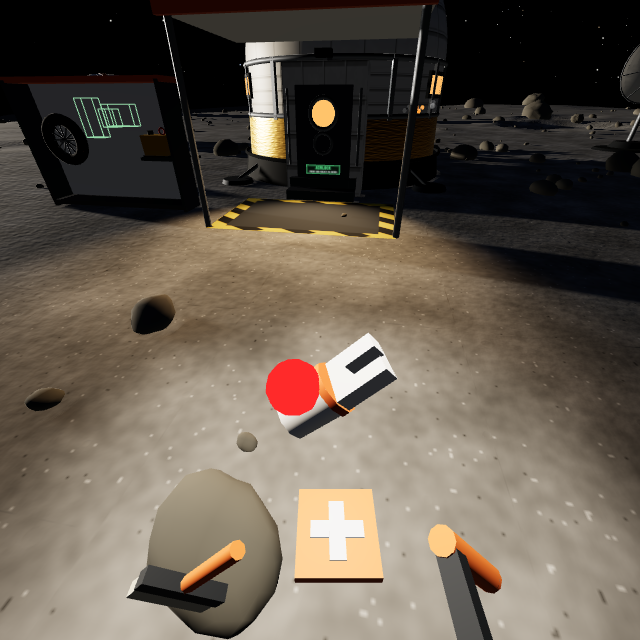
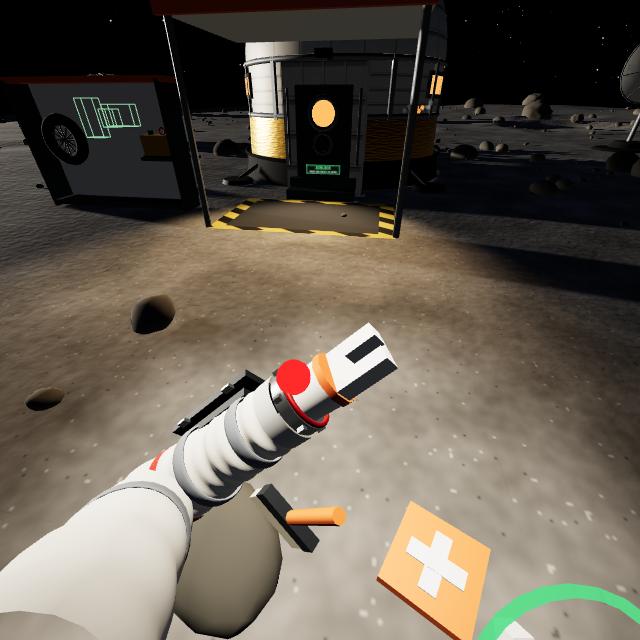
Headset: the cuff is on your own arm, and reading it turns the radio on
In a headset the arm with the gauge cuff no longer swings up when a button is held. It follows
the real left arm (the left controller, or the tracked left hand), and the radio is on while
the gauges can be read: the face of the cuff turned toward the eyes, within about half a
metre, near the middle of the view. Staying on is looser than coming on, and coming on takes a
quarter of a second of holding still, so an arm swinging through the view does not key the
radio. Lower the arm, turn it over or look away and the radio is off. The left trigger, and a
bare left hand held to the helmet, still key the radio without looking. On a laptop nothing
changes: hold Tab and the arm swings up.

The radio's icon on the cuff is now a microphone instead of a mast: a grey outline while the
radio is off, solid red with sound coming off it while you are on the air, barred in amber
with no microphone and in red with no signal. A blue loudspeaker takes its place while
Mission Ops is talking.

- client/arm.js: follow() places the arm from a tracked wrist joint or a controller's pointing
  pose (carrying on along the line of the controller's glove), the glove is a group of its own
  that a headset hides because the real hand is drawn there instead, and the upper arm can be
  aimed at where the shoulder is.
- client/astronaut.js: followArm() and gaugesReadable(), and the arm moves between the view
  (laptop) and the room (headset) as a session starts and ends.
[…]

Changed region(s): [[0.0, 0.5, 1.0, 1.0], [0.6562, 0.1562, 0.6875, 0.1875]]

diff --git a/client/arm.js b/client/arm.js
@@ -62,10 +62,10 @@ export function buildArm(THREE) {
   };
   const AZ = -(sleeveR(0) + 0.016);
   // A tube of varying radius along x, from a function of x.
-  function tube(x0, x1, radius, mat, steps = 72) {
+  function tube(x0, x1, radius, mat, steps = 72, parent = group) {
     const pts = [];
     for (let i = 0; i <= steps; i++) { const x = x0 + (x1 - x0) * i / steps; pts.push(new THREE.Vector2(radius(x), x)); }
-    const m = add(new THREE.LatheGeometry(pts, 28), mat, 0, 0, AZ);
+    const m = add(new THREE.LatheGeometry(pts, 28), mat, 0, 0, AZ, parent);
     m.rotation.z = -Math.PI / 2; // the lathe's axis (y) laid along x
     return m;
   }
@@ -78,15 +78,27 @@ export function buildArm(THREE) {
   tube(ELBOW, WRIST, sleeveR, fabric);
   tube(ELBOW + 0.066, ELBOW + 0.088, x => sleeveR(x) + 0.0018, stripe, 8);       // red identification stripe
   add(new THREE.SphereGeometry(0.0715, 24, 16), fabric, ELBOW, 0, AZ);           // the elbow
-  // Upper arm, running from the elbow down and back to a shoulder out of view.
-  {
-    const dir = new THREE.Vector3(-0.22, -0.72, 0.66).normalize(), pts = [];
-    for (let i = 0; i <= 40; i++) { const d = 0.36 * i / 40; pts.push(new THREE.Vector2(0.067 + 0.022 * d + 0.002 * Math.sin(d * 80), d)); }
-    const upper = add(new THREE.LatheGeometry(pts, 28), fabric, ELBOW, 0, AZ);
-    upper.quaternion.setFromUnitVectors(new THREE.Vector3(0, 1, 0), dir);
-    const bearing = add(new THREE.TorusGeometry(0.0715, 0.003, 10, 32), satin, 0, 0.15, 0, upper); // arm bearing
+  // Upper arm, running from the elbow to the shoulder. Raised by the radio key (a laptop), it runs down
+  // and back to a shoulder out of view; on a tracked arm (a headset) it is aimed at where the shoulder is.
+  const UPPER_LEN = 0.36, UPPER_REST = new THREE.Vector3(-0.22, -0.72, 0.66).normalize(), Y = new THREE.Vector3(0, 1, 0), toShoulder = new THREE.Vector3();
+  const upper = (() => {
+    const pts = [];
+    for (let i = 0; i <= 40; i++) { const d = UPPER_LEN * i / 40; pts.push(new THREE.Vector2(0.067 + 0.022 * d + 0.002 * Math.sin(d * 80), d)); }
+    const m = add(new THREE.LatheGeometry(pts, 28), fabric, ELBOW, 0, AZ);
+    const bearing = add(new THREE.TorusGeometry(0.0715, 0.003, 10, 32), satin, 0, 0.15, 0, m); // arm bearing
     bearing.rotation.x = Math.PI / 2; bearing.scale.z = 3.5;
+    return m;
+  })();
+  // Point the upper arm at the shoulder, given in this group's own coordinates; with nothing, back to rest.
+  function aimUpper(shoulder) {
+    if (!shoulder) { upper.quaternion.setFromUnitVectors(Y, UPPER_REST); upper.scale.y = 1; return; }
+    toShoulder.copy(shoulder).sub(upper.position);
+    const len = toShoulder.length();
+    if (len < 0.05) return;
+    upper.quaternion.setFromUnitVectors(Y, toShoulder.divideScalar(len));
+    upper.scale.y = Math.max(0.5, Math.min(1.3, len / UPPER_LEN));
   }
+  aimUpper(null);
 
   // Wrist: the glove's gauntlet over the end of the sleeve, then the metal disconnect.
   tube(WRIST - 0.022, WRIST + 0.012, x => 0.0555 + 0.03 * (x - WRIST), gloveCloth, 6);
@@ -97,19 +109,21 @@ export function buildArm(THREE) {
     const a = i / 6 * Math.PI * 2 + 0.4;
     add(new THREE.BoxGeometry(0.012, 0.008, 0.008), aluminium, WRIST + 0.022, Math.cos(a) * 0.054, AZ + Math.sin(a) * 0.054).rotation.x = -a;
   }
-  tube(WRIST + 0.036, WRIST + 0.075, x => 0.045 - 0.1 * (x - WRIST - 0.036), gloveCloth, 6); // glove wrist
-
-  // Glove: back of the hand toward the eyes, fingers relaxed and curling away.
+  // Glove: back of the hand toward the eyes, fingers relaxed and curling away. It is a group of its
+  // own because a headset draws the real hand (a controller's glove, or the tracked fingers) instead.
+  const glove = new THREE.Group();
+  group.add(glove);
+  tube(WRIST + 0.036, WRIST + 0.075, x => 0.045 - 0.1 * (x - WRIST - 0.036), gloveCloth, 6, glove); // glove wrist
   const HAND = WRIST + 0.105;
-  add(new THREE.SphereGeometry(0.05, 24, 16), gloveCloth, HAND, 0, AZ).scale.set(1, 0.96, 0.52);
-  const palmStrap = add(new THREE.TorusGeometry(0.047, 0.0045, 8, 28), webbing, HAND + 0.004, 0, AZ);
+  add(new THREE.SphereGeometry(0.05, 24, 16), gloveCloth, HAND, 0, AZ, glove).scale.set(1, 0.96, 0.52);
+  const palmStrap = add(new THREE.TorusGeometry(0.047, 0.0045, 8, 28), webbing, HAND + 0.004, 0, AZ, glove);
   palmStrap.rotation.y = Math.PI / 2; palmStrap.scale.set(0.58, 1, 3);
-  add(new THREE.CapsuleGeometry(0.0125, 0.068, 4, 12), silicone, HAND + 0.036, 0, AZ + 0.013); // knuckle pad
+  add(new THREE.CapsuleGeometry(0.0125, 0.068, 4, 12), silicone, HAND + 0.036, 0, AZ + 0.013, glove); // knuckle pad
   // One finger: a chain of segments, each bent a little more toward the palm (-z) than the last.
   function finger(x, y, z, radius, lengths, curls, lean = 0) {
     let parent = new THREE.Group();
     parent.position.set(x, y, z); parent.rotation.z = lean;
-    group.add(parent);
+    glove.add(parent);
     lengths.forEach((len, i) => {
       const joint = new THREE.Group();
       joint.rotation.y = curls[i];
@@ -208,19 +222,29 @@ export function buildArm(THREE) {
     g.strokeStyle = colour; g.lineWidth = 15; g.lineCap = 'round';
     for (const s of [-1, 1]) { g.beginPath(); g.moveTo(cx - 30, cy - 30 * s); g.lineTo(cx + 30, cy + 30 * s); g.stroke(); }
   }
-  // Radio: a mast with waves coming off it. A bar through it means no microphone.
-  function antenna(cx, cy, colour, waves, barred) {
-    const top = cy - 34;
-    g.strokeStyle = colour; g.fillStyle = colour; g.lineWidth = 6; g.lineCap = 'round'; g.lineJoin = 'round';
-    g.beginPath(); g.moveTo(cx, top); g.lineTo(cx, cy + 52); g.moveTo(cx - 22, cy + 58); g.lineTo(cx, cy + 6); g.lineTo(cx + 22, cy + 58); g.stroke();
-    g.beginPath(); g.arc(cx, top, 9, 0, Math.PI * 2); g.fill();
-    for (let i = 0; i < 3; i++) {
-      g.strokeStyle = i < waves ? colour : DIM; g.lineWidth = 6;
-      const r = 22 + i * 14;
-      g.beginPath(); g.arc(cx, top, r, -0.62, 0.62); g.stroke();
-      g.beginPath(); g.arc(cx, top, r, Math.PI - 0.62, Math.PI + 0.62); g.stroke();
+  // Radio: a microphone. Solid, with sound coming off it, while you are on the air; an outline when the
+  // radio is off; a bar through it when it cannot work (no microphone, or no signal).
+  function microphone(cx, cy, colour, live, barred) {
+    g.strokeStyle = colour; g.fillStyle = colour; g.lineWidth = 7; g.lineCap = 'round'; g.lineJoin = 'round';
+    g.beginPath(); g.roundRect(cx - 15, cy - 50, 30, 58, 15);            // the capsule
+    if (live) g.fill();
+    g.stroke();
+    g.beginPath(); g.arc(cx, cy - 8, 29, 0, Math.PI); g.stroke();          // the cradle under it
+    g.beginPath(); g.moveTo(cx, cy + 21); g.lineTo(cx, cy + 46); g.moveTo(cx - 20, cy + 48); g.lineTo(cx + 20, cy + 48); g.stroke(); // stem and foot
+    for (let i = 0; i < 2; i++) {                                           // sound, either side
+      g.strokeStyle = live ? colour : DIM; g.lineWidth = 6;
+      const r = 42 + i * 14;
+      g.beginPath(); g.arc(cx, cy - 22, r, -0.5, 0.5); g.stroke();
+      g.beginPath(); g.arc(cx, cy - 22, r, Math.PI - 0.5, Math.PI + 0.5); g.stroke();
     }
-    if (barred) { g.strokeStyle = barred === true ? AMBER : barred; g.lineWidth = 9; g.beginPath(); g.moveTo(cx - 46, cy + 56); g.lineTo(cx + 46, cy - 66); g.stroke(); }
+    if (barred) { g.strokeStyle = barred; g.lineWidth = 9; g.beginPath(); g.moveTo(cx - 44, cy + 52); g.lineTo(cx + 44, cy - 58); g.stroke(); }
+  }
+  // Mission Ops talking to you: a loudspeaker with sound coming out of it.
+  function speaker(cx, cy, colour) {
+    g.strokeStyle = colour; g.fillStyle = colour; g.lineWidth = 7; g.lineCap = 'round'; g.lineJoin = 'round';
+    g.beginPath(); g.moveTo(cx - 44, cy - 16); g.lineTo(cx - 24, cy - 16); g.lineTo(cx + 2, cy - 40); g.lineTo(cx + 2, cy + 38); g.lineTo(cx - 24, cy + 14); g.lineTo(cx - 44, cy + 14); g.closePath();
+    g.fill(); g.stroke();
+    for (let i = 0; i < 3; i++) { g.beginPath(); g.arc(cx + 2, cy - 1, 18 + i * 15, -0.75, 0.75); g.stroke(); }
   }
   // Alarm: a warning triangle, lit while one is active.
   function warning(cx, cy, lit) {
@@ -275,7 +299,8 @@ export function buildArm(THREE) {
     else at(346, 190, 1.15, () => hourglass(0, 0, left, hurry ? AMBER : BLUE, running));
 
     // Radio, alarms, visor zoom.
-    antenna(506, 196, radio ? radio[1] : '#77868f', radio && info.radio !== 'dead' ? 3 : 0, info.radio === 'dead' ? RED : info.radio === 'nomic');
+    if (info.radio === 'rx') speaker(506, 190, BLUE);
+    else microphone(506, 192, radio ? radio[1] : '#77868f', info.radio === 'tx', info.radio === 'dead' ? RED : info.radio === 'nomic' ? AMBER : null);
 
     // The tool belt: one box per weight unit it can carry, filled for each unit in use.
     for (let i = 0; i < cap; i++) {
@@ -288,7 +313,7 @@ export function buildArm(THREE) {
     at(594, 258, 0.88, () => magnifier(0, 0, level));
 
     tex.needsUpdate = true;
-    shown = { radio: radio ? radio[0] : 'STANDBY', frame: radio ? radio[1] : null, oxygen: o2, seconds: t, alarms, zoomPips: level, status: info.status || '', belt };
+    shown = { radio: radio ? radio[0] : 'STANDBY', icon: info.radio === 'rx' ? 'speaker' : info.radio === 'tx' ? 'microphone, live' : radio ? 'microphone, barred' : 'microphone, off', frame: radio ? radio[1] : null, oxygen: o2, seconds: t, alarms, zoomPips: level, status: info.status || '', belt };
   }
 
   // ---------- raising and lowering ----------
@@ -307,5 +332,38 @@ export function buildArm(THREE) {
   }
   update(0, false);
 
-  return { group, canvas, draw, update, signal, get raise() { return raise; }, get shown() { return shown; } };
+  // ---------- following a real arm (a headset) ----------
+  // In a headset the cuff is on your own left arm, not swung up for you. `source` is the matrix of what
+  // the headset tracks, in the space this group is parented in:
+  //   'hand'        the wrist joint of a tracked hand. WebXR: -z runs to the fingers, +y out of the back of the hand.
+  //   'controller'  a held controller's pointing pose. Its glove (client/stations.js) runs down and back
+  //                 from it by GLOVE_TILT, and the forearm carries on along that line; thumb up is +y.
+  // Each is turned into this model's axes (x to the hand, z out of the face of the display, on the back
+  // of the forearm) and slid so the wrist ring sits just behind the tracked wrist or the glove's cuff.
+  const GLOVE_TILT = 0.6;
+  const V3 = (x, y, z) => new THREE.Vector3(x, y, z);
+  const fit = (xAxis, yAxis, zAxis, anchor, tilt = 0) => new THREE.Matrix4().makeRotationX(tilt)
+    .multiply(new THREE.Matrix4().makeBasis(xAxis, yAxis, zAxis))
+    .multiply(new THREE.Matrix4().makeTranslation(-anchor.x, -anchor.y, -anchor.z));
+  const FIT = {
+    hand: fit(V3(0, 0, -1), V3(-1, 0, 0), V3(0, 1, 0), V3(WRIST + 0.05, 0, AZ)),
+    controller: fit(V3(0, 0, -1), V3(0, -1, 0), V3(-1, 0, 0), V3(WRIST + 0.172, 0, AZ), GLOVE_TILT),
+  };
+  let tracked = false;
+  // Start or stop following. While following, `update` is not used: the real arm decides where this is.
+  function setTracked(on) {
+    tracked = on;
+    group.matrixAutoUpdate = !on;
+    glove.visible = !on;
+    if (on) { group.visible = false; raise = 0; } else { aimUpper(null); update(0, false); }
+  }
+  // Put the arm on what is tracked this frame, or hide it if nothing is (`source` null).
+  function follow(source, kind) {
+    group.visible = !!source;
+    if (!source) return;
+    group.matrix.multiplyMatrices(source, FIT[kind]);
+    group.matrixWorldNeedsUpdate = true;
+  }
+
+  return { group, canvas, draw, update, signal, setTracked, follow, aimUpper, get tracked() { return tracked; }, get raise() { return raise; }, get shown() { return shown; } };
 }

diff --git a/client/astronaut.js b/client/astronaut.js
@@ -99,9 +99,11 @@ addEventListener('resize', () => {
 // of the face only while the radio is keyed (see client/arm.js).
 const arm = buildArm(THREE);
 camera.add(arm.group);
-// Keying the radio and raising the arm are one action: Tab on a laptop, the left trigger on a
-// controller, the left hand to the helmet with bare hands.
-let keyed = false; // the talk control is held, whether or not there is a microphone
+// Keying the radio and raising the arm are one action. On a laptop, Tab swings the arm up. In a
+// headset the cuff is on your own left arm: bring it up so you can read the gauges and the radio is
+// on, lower it or turn it away and the radio is off (see "the cuff on your own arm" below). The left
+// trigger, and a bare left hand held to the helmet, still key the radio without looking.
+let keyed = false; // the radio is keyed, whether or not there is a microphone
 
 // What the clock dial shows instead of its hourglass: a tick or a cross for the mission's outcome or
 // for the thing that just happened, and a dark hourglass while waiting in the lobby.
@@ -413,6 +415,49 @@ function turnRig(angle) { // turn on the spot, around where the head is
   rig.rotation.y += angle;
 }
 
+// ---------- the cuff on your own arm (a headset) ----------
+// The arm follows the left controller or the tracked left hand. The radio is on while the gauges
+// can be read: the face of the cuff is turned toward the eyes, close enough, and near the middle
+// of the view. Each test is looser for staying on than for coming on, and coming on takes a moment
+// of holding still, so an arm swinging through the view does not key the radio.
+const READ = {
+  facing: [0.7, 0.5],    // cosine of the angle between the face of the cuff and the line to the eyes: on, stay on
+  near: [0.55, 0.68],    // metres from the eyes
+  inView: [0.8, 0.62],   // cosine of the angle off the middle of the view
+  hold: 0.25,            // seconds
+};
+const SHOULDER = { side: 0.19, down: 0.26 }; // where the left shoulder is from the eyes, metres
+let reading = false, readFor = 0;
+const cuffPos = new THREE.Vector3(), cuffOut = new THREE.Vector3(), gaze = new THREE.Vector3(), shoulder = new THREE.Vector3();
+// Put the arm on the left hand or controller. Returns true if there is one to put it on.
+function followArm() {
+  const i = controllers.findIndex(c => c.userData.hand === 'left');
+  const c = controllers[i], joint = c && c.userData.isHand ? hands[i].joints?.wrist : null;
+  if (joint && joint.visible) arm.follow(joint.matrix, 'hand');
+  else if (c && !c.userData.isHand && c.visible) arm.follow(c.matrix, 'controller');
+  else arm.follow(null);
+  if (!arm.group.visible) return false;
+  arm.group.updateWorldMatrix(true, false);
+  // The upper arm runs from the elbow to the left shoulder, wherever the head has got to.
+  shoulder.set(headPos.x + fwd.z * SHOULDER.side, headPos.y - SHOULDER.down, headPos.z - fwd.x * SHOULDER.side);
+  arm.aimUpper(arm.group.worldToLocal(shoulder));
+  return true;
+}
+// Can the gauges be read right now? Call once a frame, after followArm.
+function gaugesReadable(dt) {
+  if (!arm.group.visible) { reading = false; readFor = 0; return false; }
+  cuffPos.setFromMatrixPosition(arm.group.matrixWorld);
+  cuffOut.setFromMatrixColumn(arm.group.matrixWorld, 2).normalize();
+  camera.getWorldDirection(gaze);
+  const toEyes = tmpV.copy(headPos).sub(cuffPos), far = toEyes.length();
+  toEyes.divideScalar(far || 1);
+  const n = reading ? 1 : 0;
+  const ok = cuffOut.dot(toEyes) > READ.facing[n] && far < READ.near[n] && -gaze.dot(toEyes) > READ.inView[n];
+  readFor = ok ? readFor + dt : 0;
+  reading = ok && (reading || readFor >= READ.hold);
+  return reading;
+}
+
 // ---------- visor zoom ----------
 // A round scope in the middle of the view showing the scene through a narrow lens. A headset
 // will not let a page change the field of view of the eyes themselves, so the magnified picture
@@ -510,6 +555,7 @@ function control(dt, now) {
   camera.getWorldDirection(fwd); fwd.y = 0; fwd.normalize();
   if (session) {
     ptt = handControls(ptt);
+    if (followArm() && gaugesReadable(dt)) ptt = true;
     for (const src of session.inputSources) {
       const gp = src.gamepad;
       if (!gp) continue;
@@ -646,9 +692,10 @@ renderer.setAnimationLoop(() => {
   shake *= 0.86;
   if (mode === 'desk') camera.rotation.z = (Math.random() - 0.5) * shake;
   drawBoard();
-  arm.update(Math.min(0.25, now - armFrame), keyed); // real time, so the arm is as quick on a slow machine
+  // On a laptop the radio key swings the arm up. In a headset it is on your own arm (see followArm).
+  if (!arm.tracked) arm.update(Math.min(0.25, now - armFrame), keyed); // real time, so the arm is as quick on a slow machine
   armFrame = now;
-  if (arm.raise > 0) drawGauges(now);
+  if (arm.group.visible) drawGauges(now);
   renderScope();
   renderer.render(scene, camera);
   if (snapWaiting) { snapWaiting(renderer.domElement.toDataURL('image/png')); snapWaiting = null; } // must follow the draw in the same frame
@@ -657,7 +704,7 @@ renderer.setAnimationLoop(() => {
 // For debugging from the browser console, and for the tests: moonbase.state(), moonbase.fx.targets() ...
 window.moonbase = { resetStanding: () => { standing = 1.2; }, state: () => state, fx, world, interior, radio, rig, camera, net, board, THREE, scene, use: () => use(null), useBoard: () => useBoard(null), useHatch: () => useHatch(null), sendPose, myPose, teleport, turnRig,
   where: () => where, place, renderer, outage: on => { debugOutage = on; },
-  zoom: () => zoom, setZoom, controllers, handControls, scope: scopeMesh, arm, snap, radioState: () => ({ keyed, talking, rx, shown: radioState() }) };
+  zoom: () => zoom, setZoom, controllers, handControls, scope: scopeMesh, arm, snap, radioState: () => ({ keyed, talking, rx, reading, shown: radioState() }) };
 
 // ---------- start-up screen: the lobby, with the radio and VR steps in the astronaut's panel ----------
 const $ = id => document.getElementById(id);
@@ -670,5 +717,6 @@ $('radioBtn').onclick = async () => {
 };
 $('vrSlot').appendChild(VRButton.createButton(renderer, { optionalFeatures: ['hand-tracking'] }));
 $('deskBtn').onclick = () => { mode = 'desk'; keys.tab = false; $('deskBtn').blur(); lobby.show(false); $('cross').hidden = false; lockPointer(); };
-renderer.xr.addEventListener('sessionstart', () => { mode = 'vr'; lobby.show(false); });
-renderer.xr.addEventListener('sessionend', () => { mode = null; zoom = 1; zoomGrab = null; lobby.show(true); });
+// In a headset the arm lives in the room with the hands, and follows the left one; on a laptop it hangs off the view.
+renderer.xr.addEventListener('sessionstart', () => { mode = 'vr'; rig.add(arm.group); arm.setTracked(true); lobby.show(false); });
+renderer.xr.addEventListener('sessionend', () => { mode = null; zoom = 1; zoomGrab = null; reading = false; readFor = 0; camera.add(arm.group); arm.setTracked(false); lobby.show(true); });

diff --git a/client/astronaut.html b/client/astronaut.html
@@ -25,7 +25,7 @@
   <div class="row"><button id="radioBtn" class="big">1. Turn on radio</button></div>
   <div class="row" id="step2" hidden><span id="vrSlot"></span><button id="deskBtn" class="big ghost">Play on this screen</button></div>
   <span class="lb-hint">Put the headset on and enter VR, then pull the trigger on the READY board in front of you.</span>
-  <details id="how"><summary>Controls</summary>Nothing is drawn on your visor: your gauges are on your wrist, and your arm comes up while you key the radio.<br>Headset: GRIP = grab a tool off the rack or your belt, LEFT trigger = radio + wrist gauges, RIGHT trigger = point at something close (the hatch, the READY board), left stick = walk, right stick = turn, A = jump. Crouch by crouching.<br>Bare hands: pinch on a thing = grab it, left hand to helmet = radio, point + pinch = use, pinch at the ground = teleport, pinch left + drag sideways = turn, pinch both empty hands and pull apart = zoom.<br>Desktop: click = take a tool or use it (hold to keep brushing or welding), Tab = radio + wrist gauges, WASD = walk, mouse = look, C = crouch, F = patch suit, G = generator, Space = jump.</details>
+  <details id="how"><summary>Controls</summary>Nothing is drawn on your visor: your gauges are on your left wrist, and reading them is what turns the radio on.<br>Headset: raise your LEFT wrist like a watch, where you can read it = radio on (the microphone on it lights up), GRIP = grab a tool off the rack or your belt, LEFT trigger = radio without looking, RIGHT trigger = point at something close (the hatch, the READY board), left stick = walk, right stick = turn, A = jump. Crouch by crouching.<br>Bare hands: pinch on a thing = grab it, left wrist raised like a watch = radio on, left hand to helmet = radio without looking, point + pinch = use, pinch at the ground = teleport, pinch left + drag sideways = turn, pinch both empty hands and pull apart = zoom.<br>Desktop: click = take a tool or use it (hold to keep brushing or welding), hold Tab = radio + wrist gauges, WASD = walk, mouse = look, C = crouch, F = patch suit, G = generator, Space = jump.</details>
   <a class="lb-leave" href="/">Leave seat</a>
   <span id="err" class="lb-hint" style="color:var(--red)"></span>
 </div>

diff --git a/README.md b/README.md
@@ -64,7 +64,7 @@ If the venue Wi-Fi blocks devices from seeing each other, use a phone hotspot.
 
 | | Controllers | Bare hands (hand tracking) | Laptop (testing) |
 | --- | --- | --- | --- |
-| Radio to Mission Ops, and wrist gauges | hold left trigger | hold your left hand up to your helmet | hold Tab |
+| Radio to Mission Ops, and wrist gauges | raise your left wrist where you can read it, like a watch (the left trigger also keys the radio, without looking) | raise your left wrist where you can read it (a left hand held to the helmet also keys the radio) | hold Tab |
 | Grab (tools off the rack and your belt, cable plugs, the rover wheel, the generator cord) | grip button, with your hand on it | pinch, with your fingers on it | click it |
 | Use a tool | bring it to the work: the brush and patch kit work on contact, the welder lights when its tip is on the crack | same | click the work, hold to keep brushing or welding |
 | Point at something within arm's reach (a fallback for grabbing) | right trigger | | |
@@ -86,7 +86,14 @@ Visor zoom is for looking at something from where you stand, such as whether the
 
 ![The cuff display on the suit's forearm, up while the radio is keyed](docs/astronaut-wrist.png)
 
-The astronaut has no heads-up display. Everything is on a small cuff display strapped to the left forearm of the suit, and the arm is out of sight until the radio is keyed. Keying the radio and raising the arm are one action: hold the radio control (left trigger, left hand to helmet, or Tab on a laptop) and the arm swings up in front of you; let go and it drops. So you read your oxygen while you are talking.
+The astronaut has no heads-up display. Everything is on a small cuff display strapped to the back of the left forearm of the suit, and reading it is what turns the radio on.
+
+- **In a headset** the cuff is on your own left arm: it follows the left controller or the tracked left hand. Bring it up where you can read it, the way you look at a watch, and the radio is on; lower it, turn it over or look away and the radio is off. "Can read it" means the face of the cuff is turned toward your eyes, within about half a metre, and near the middle of your view, held for a quarter of a second so that an arm swinging past does not key the radio. The left trigger, and a bare left hand held to the helmet, still key the radio without looking.
+- **On a laptop** hold Tab: the arm swings up in front of you and the radio is on; let go and it drops.
+
+Either way you read your oxygen while you are talking.
+
+![In a headset: the cuff on your own left arm, raised to read, the microphone lit red because that has put you on the air](docs/astronaut-cuff.png)
 
 The display has no words or numbers on it, only icons:
 
@@ -95,12 +102,13 @@ The display has no words or numbers on it, only icons:
 | Gas bottle in a dial | suit oxygen: the bottle and the dial empty together, and turn red when low |
 | Hourglass in a dial | time left: the sand and the dial run down, amber for the last 30 seconds |
 | Tick or cross in place of the hourglass | something just fixed, or a wrong plug or a meteor hit, for a few seconds; at the end, mission complete or failed |
-| Radio mast | red waves while you are transmitting, blue while Mission Ops is talking, an amber bar through it if the page has no microphone, a red bar and no waves during a blackout: no signal |
+| Microphone | the radio. A grey outline while it is off; solid red with sound coming off it while you are on the air; an amber bar through it if the page has no microphone; a red bar through it during a blackout: no signal |
+| Loudspeaker, in place of the microphone | blue, while Mission Ops is talking to you |
 | Warning triangles | one lit for each thing that is broken right now (up to two). They do not say what |
 | Row of four boxes | the tool belt: one box per weight unit, filled for each unit in use, amber when full |
 | Magnifying glass | lit while the visor zoom is on, with pips for how far in |
 
-The arm being up is itself the sign that your radio is keyed, and the display backs it up: a light strip in its top edge and the frame round the face take the radio's colour. The arm is modelled on an EVA suit's: a woven white outer garment with soft wrinkles, a ribbed elbow, a red identification stripe, the metal wrist disconnect, and a glove with a gauntlet, palm strap, knuckle pad and silicone fingertips.
+The microphone is the sign that your radio is on, and the display backs it up: a light strip in its top edge and the frame round the face take the radio's colour. The arm is modelled on an EVA suit's: a woven white outer garment with soft wrinkles, a ribbed elbow, a red identification stripe, the metal wrist disconnect, and a glove with a gauntlet, palm strap, knuckle pad and silicone fingertips.
 
 Mission Ops holds **Space** to talk. The Technician drives the rover with the **arrow keys**.
 
@@ -215,7 +223,7 @@ Nothing is downloaded at run time: real LOLA terrain and skyline (see "Where the
 
 Tested three ways. `npm test` checks the rules in plain Node: the belt's weight limit, every repair refused without its tool or from too far away, the battery draining to a blackout and recovering, voice dropped in both directions during a blackout, the radar and the meteor warning lost with the rover wheel, cover, the meteor hit and the leak it starts, the generator, exactly what each seat is sent, the lobby, and the demo mission played well (a win) and not at all (a loss). `npm run smoke` opens Mission Control and the astronaut in headless Chromium against the real three.js r180 build, readies up, and plays the whole demo mission to a clean win the way a laptop player would: stand somewhere, look at the thing, click. Every repair goes through the same raycast as a mouse click, the switchboard is reached through the airlock, and the socket for each cable is read off the Scientist's wiring diagram on the other page. It then drives the hand-tracking gestures by firing the events a pinch fires (zoom in either pinch order, turn, teleport on release), checks the visor scope's extra pass, the wrist gauges with no microphone (icons only, nothing else fixed to the view), the hall's outage lighting, and, in a second browser with a pretend microphone, the radio both ways. It needs `npm i -D playwright && npx playwright install chromium` once `npm run smoke:shots` also saves screenshots in `test/shots/`. It passes against the laptop server and against the Cloudflare worker (`npm run dev:cf`, then `SMOKE_URL=http://localhost:8787 npm run smoke`).
 
-`npm run vr` puts the astronaut's page in a pretend headset (`test/fakexr.js`, a stand-in for the browser's WebXR: a head, two controllers with grip, trigger and haptics, or two tracked hands with a pinch) and does every repair by hand, the way a player in a Quest would: reach for the tool, close the hand, bring it to the work. With controllers it takes tools off the rack and the belt with either hand, is refused the tire on a full belt, sweeps the brush over all three panels (and checks that waving it 35 cm off the panel does nothing), welds the crack point by point (and that leaving a point early does not weld it), goes in through the airlock and pushes plugs into a full socket, a wrong one and the right ones, pulls the wheel and fits the tire, pulls the generator cord in a blackout, patches each forearm with the other hand, listens to the hiss in each ear with the crack on the left, on the right, near and far, and stands, crouches and hides through meteor showers. It repeats the grabbing with bare hands and checks that a pinch on a tool grabs while two empty-handed pinches still zoom. It also measures how far every action makes the arm reach, and fails if any needs more than 0.8 m: that check is why the tire and the generator were moved up the rack and why the belt stays at the hips. The last step draws real frames for both eyes. `npm run vr:shots` saves those as pictures in `test/shots/`.
+`npm run vr` puts the astronaut's page in a pretend headset (`test/fakexr.js`, a stand-in for the browser's WebXR: a head, two controllers with grip, trigger and haptics, or two tracked hands with a pinch) and does every repair by hand, the way a player in a Quest would: reach for the tool, close the hand, bring it to the work. With controllers it takes tools off the rack and the belt with either hand, is refused the tire on a full belt, sweeps the brush over all three panels (and checks that waving it 35 cm off the panel does nothing), welds the crack point by point (and that leaving a point early does not weld it), goes in through the airlock and pushes plugs into a full socket, a wrong one and the right ones, pulls the wheel and fits the tire, pulls the generator cord in a blackout, patches each forearm with the other hand, listens to the hiss in each ear with the crack on the left, on the right, near and far, and stands, crouches and hides through meteor showers. It repeats the grabbing with bare hands and checks that a pinch on a tool grabs while two empty-handed pinches still zoom. With a pretend microphone it then checks the cuff, with controllers and with bare hands: the arm hanging at the side leaves the radio off, an arm brought up for an instant does not key it, holding the cuff up like a watch puts the astronaut on the air with the microphone icon lit, the cuff then faces the eyes the right way up on the forearm behind the wrist, and looking away, turning the arm over or lowering it turns the radio off. It also measures how far every action makes the arm reach, and fails if any needs more than 0.8 m: that check is why the tire and the generator were moved up the rack and why the belt stays at the hips. The last step draws real frames for both eyes. `npm run vr:shots` saves those as pictures in `test/shots/`.
 
 **What that leaves untested: a real headset.** The pretend one proves the code runs and the distances are reachable. It cannot say whether the gestures feel right, whether the belt sits where a hand expects it, whether the haptics are too strong, how real hand tracking behaves when a pinch is half-recognised, or how the scene performs on the Quest's GPU. Try those first on the day. Every distance is a named constant at the top of `client/stations.js` (`GRAB`, `GRAB_RACK`, `SOCKET_SNAP`, `WHEEL_PULL`, `CORD_PULL`, `TIRE_FIT`, `PATCH_RANGE`, `BELT_AT`, `WELD_RANGE`, `WELD_DWELL`). If a gesture misbehaves, pointing the right trigger at the thing from within 1.6 m does the same job. If it stutters, the first things to turn down are in `client/world.js`: the terrain segment count (`SEG`), the boulder counts in the three `scatter` calls, and the shadow map size.
 
